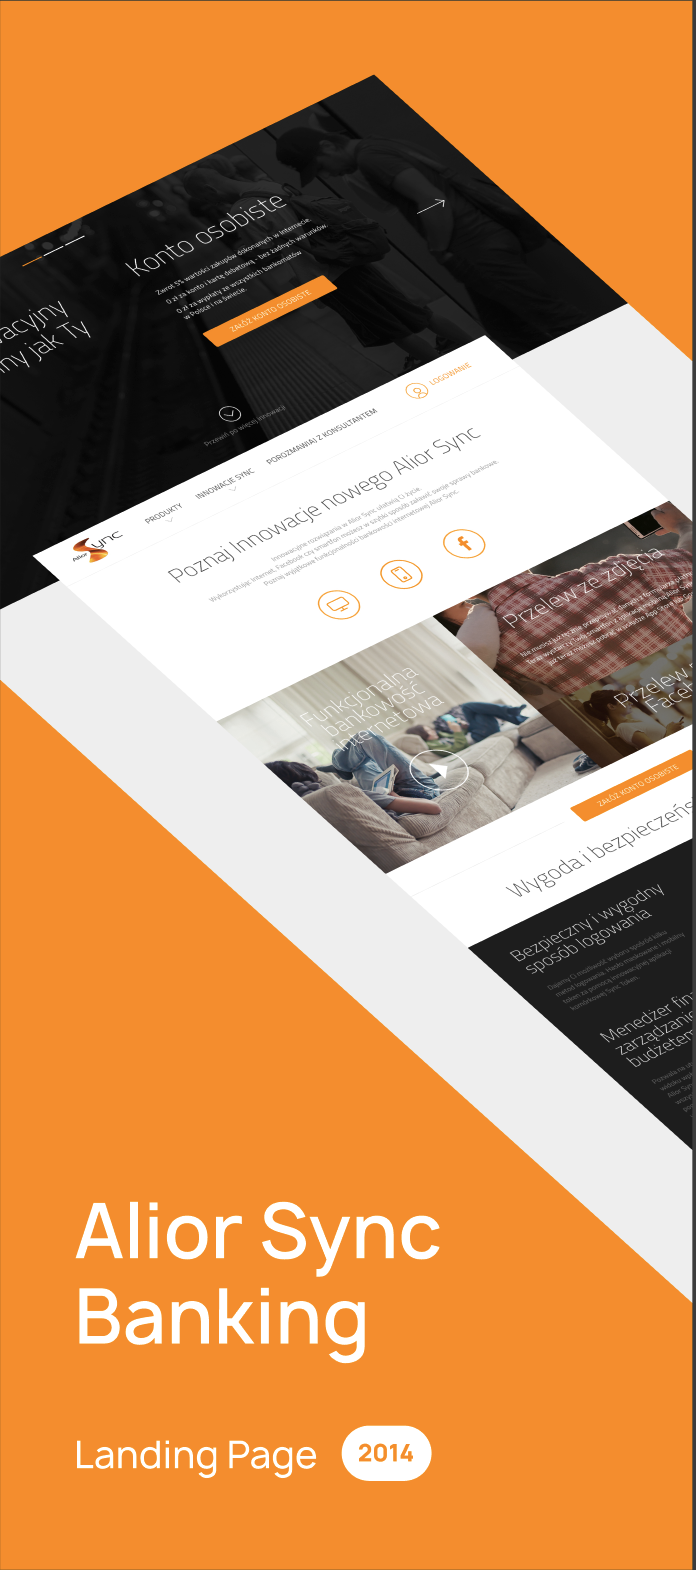
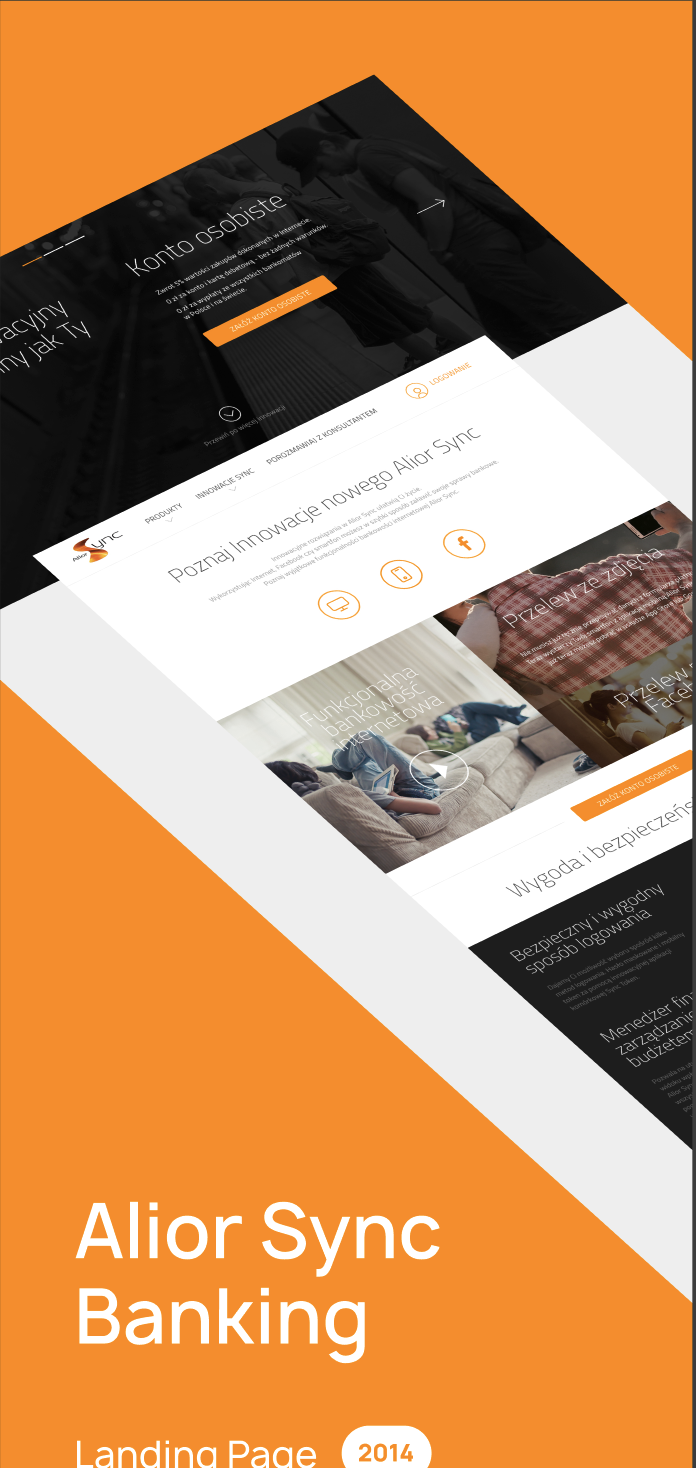
content(alior): use baked alior.png without skew script
Deprecate skew_cover.py; ready-made covers use cover baked in portfolio.json.

diff --git a/content/portfolio.js b/content/portfolio.js
@@ -1,1 +1,1 @@
-window.PORTFOLIO = {"projects":[{"id":"transimeksa","category":"desktop","title":"Transimeksa\nLogistic\nSolutions","label":"Desktop website","color":"#0f5d4f","image":"images/transimeksa.jpg"},{"id":"irshad","category":"desktop","title":"Irshad\nPetroleum","label":"Desktop website","color":"#1f4e88","image":"images/irshad.jpg"},{"id":"dynamite","category":"desktop","title":"Dynamite\nStudio","label":"Desktop website","color":"#ec413a","image":"images/Sysdyne-NewOrder-skew.png","mediaVersion":"20251108f"},{"id":"alior","category":"desktop","title":"Alior\nSync\nBanking","label":"Landing Page","year":"2014","color":"#fe9400","image":"images/alior-skew.png","mediaVersion":"20251109c"},{"id":"utilimarc","category":"desktop","title":"Utilimarc\nTelematics","label":"SaaS Dashboard","color":"#566167","image":"images/utilimarc-skew.png","mediaVersion":"20251108g"},{"id":"hello","category":"desktop","title":"Hello","label":"Desktop Dashboard","color":"#b62b88","image":"images/hello.jpg"},{"id":"tallinder","category":"desktop","title":"Tallinder","label":"Desktop","color":"#222222","image":"images/tallinder.jpg"},{"id":"oticon","category":"mobile","title":"Oticon\nRemoteCare","label":"Mobile App","color":"#c2a88d","image":"images/oticon.jpg"},{"id":"ponto","category":"mobile","title":"Ponto Trial\nCampanion","label":"Mobile App","color":"#6a6a68","image":"images/ponto.jpg"},{"id":"hearing-fitness","category":"mobile","title":"Hearing\nFitness","label":"Tablet App","color":"#1e2428","image":"images/hearing-fitness.jpg"},{"id":"bahs","category":"mobile","title":"BAHS App","label":"Mobile App","color":"#f07228","image":"images/bahs.jpg"},{"id":"sysdyne-illustrations","category":"motion","title":"Sysdyne\nIllustrations","label":"Motion","color":"#e5642c","image":"images/sysdyne-illustrations.png","mediaVersion":"20251108d"}]};
+window.PORTFOLIO = {"projects":[{"id":"transimeksa","category":"desktop","title":"Transimeksa\nLogistic\nSolutions","label":"Desktop website","color":"#0f5d4f","image":"images/transimeksa.jpg"},{"id":"irshad","category":"desktop","title":"Irshad\nPetroleum","label":"Desktop website","color":"#1f4e88","image":"images/irshad.jpg"},{"id":"dynamite","category":"desktop","title":"Dynamite\nStudio","label":"Desktop website","color":"#ec413a","image":"images/Sysdyne-NewOrder-skew.png","mediaVersion":"20251108f"},{"id":"alior","category":"desktop","title":"Alior\nSync\nBanking","label":"Landing Page","year":"2014","color":"#fe9400","cover":"baked","image":"images/alior.png","mediaVersion":"20251109d"},{"id":"utilimarc","category":"desktop","title":"Utilimarc\nTelematics","label":"SaaS Dashboard","color":"#566167","image":"images/utilimarc-skew.png","mediaVersion":"20251108g"},{"id":"hello","category":"desktop","title":"Hello","label":"Desktop Dashboard","color":"#b62b88","image":"images/hello.jpg"},{"id":"tallinder","category":"desktop","title":"Tallinder","label":"Desktop","color":"#222222","image":"images/tallinder.jpg"},{"id":"oticon","category":"mobile","title":"Oticon\nRemoteCare","label":"Mobile App","color":"#c2a88d","image":"images/oticon.jpg"},{"id":"ponto","category":"mobile","title":"Ponto Trial\nCampanion","label":"Mobile App","color":"#6a6a68","image":"images/ponto.jpg"},{"id":"hearing-fitness","category":"mobile","title":"Hearing\nFitness","label":"Tablet App","color":"#1e2428","image":"images/hearing-fitness.jpg"},{"id":"bahs","category":"mobile","title":"BAHS App","label":"Mobile App","color":"#f07228","image":"images/bahs.jpg"},{"id":"sysdyne-illustrations","category":"motion","title":"Sysdyne\nIllustrations","label":"Motion","color":"#e5642c","image":"images/sysdyne-illustrations.png","mediaVersion":"20251108d"}]};

diff --git a/portfolio.html b/portfolio.html
@@ -9,7 +9,7 @@
     <link rel="preconnect" href="https://fonts.googleapis.com" />
     <link rel="preconnect" href="https://fonts.gstatic.com" crossorigin />
     <link href="https://fonts.googleapis.com/css2?family=Manrope:wght@200;500;600;700&display=swap" rel="stylesheet" />
-    <link rel="stylesheet" href="css/site.css?v=20251109c" />
+    <link rel="stylesheet" href="css/site.css?v=20251109d" />
   </head>
   <body>
     <div class="shell shell-viewport portfolio-page">
@@ -54,8 +54,8 @@
         </nav>
       </div>
     </div>
-    <script src="content/portfolio.js?v=20251109c"></script>
-    <script src="js/portfolio.js?v=20251109c"></script>
+    <script src="content/portfolio.js?v=20251109d"></script>
+    <script src="js/portfolio.js?v=20251109d"></script>
     <script src="js/keyboard.js?v=20251108m"></script>
     <script src="js/close.js"></script>
   </body>

diff --git a/js/portfolio.js b/js/portfolio.js
@@ -62,7 +62,7 @@
     var bust = project.mediaVersion ? "?v=" + encodeURIComponent(project.mediaVersion) : "";
     image.src = url + bust;
     image.alt = "";
-    if (m.base.toLowerCase().indexOf("skew") !== -1) {
+    if (project.cover === "baked" || m.base.toLowerCase().indexOf("skew") !== -1) {
       image.className = "card-visual-skew";
     }
     visual.appendChild(image);

diff --git a/scripts/skew_cover.py b/scripts/skew_cover.py
@@ -1,5 +1,9 @@
 #!/usr/bin/env python3
 """
+DEPRECATED — nie używamy tego generatora. Gotowe mockupy wgrywaj jako PNG/JPG
+i ustaw `"cover": "baked"` w content/portfolio.json.
+
+---
 Płaski zrzut -> ciasno wykadrowany PNG z perspektywą karty portfolio.
 
 Ten sam zestaw co CSS kart bez klasy skew:

diff --git a/README.md b/README.md
@@ -57,17 +57,10 @@ Kategorie: `desktop`, `mobile`, `motion`. `\n` w tytule łamie linię tak jak na
 
 Plik trafia do `content/images/`. Usunięcie projektu zostawia plik na dysku.
 
-### Mockup „skew” z płaskiego zrzutu
+### Gotowy cover (mockup z Figmy)
 
-`scripts/skew_cover.py` robi perspektywę jak CSS karty (`perspective` 520, `rotateX` 8°, `rotateZ` −6°, origin na dole) i **przycina PNG do mockupu**. Tło zostaje przezroczyste — kolor jest na karcie. Bez cienia.
+Cover wrzucasz jako **png/jpg** do `content/images/` (perspektywa już na grafice). W `content/portfolio.json` ustaw `"cover": "baked"` — karta **nie** dokłada CSS 3D (ta sama logika co stare pliki z `skew` w nazwie).
 
-Nazwa pliku musi zawierać `skew`, wtedy karta nie dokłada drugiego 3D.
-
-```bash
-python3 scripts/skew_cover.py content/images/zrzut.jpg \
-  -o content/images/projekt-skew.png
-```
-
-Karta Dynamite używa gotowego mockupu `content/images/Sysdyne-NewOrder-skew.png` (źródło: `content/images/Sysdyne-NewOrder.png`). Potem ustaw `image` w `content/portfolio.json` i `content/portfolio.js`.
+Opcjonalnie: `"year": "2014"` — pastylka z datą obok labela.
 
 **GitHub Pages:** `https://bratn-com.github.io/Portfolio/` — po pushu twarde odświeżenie (Ctrl+Shift+R).
